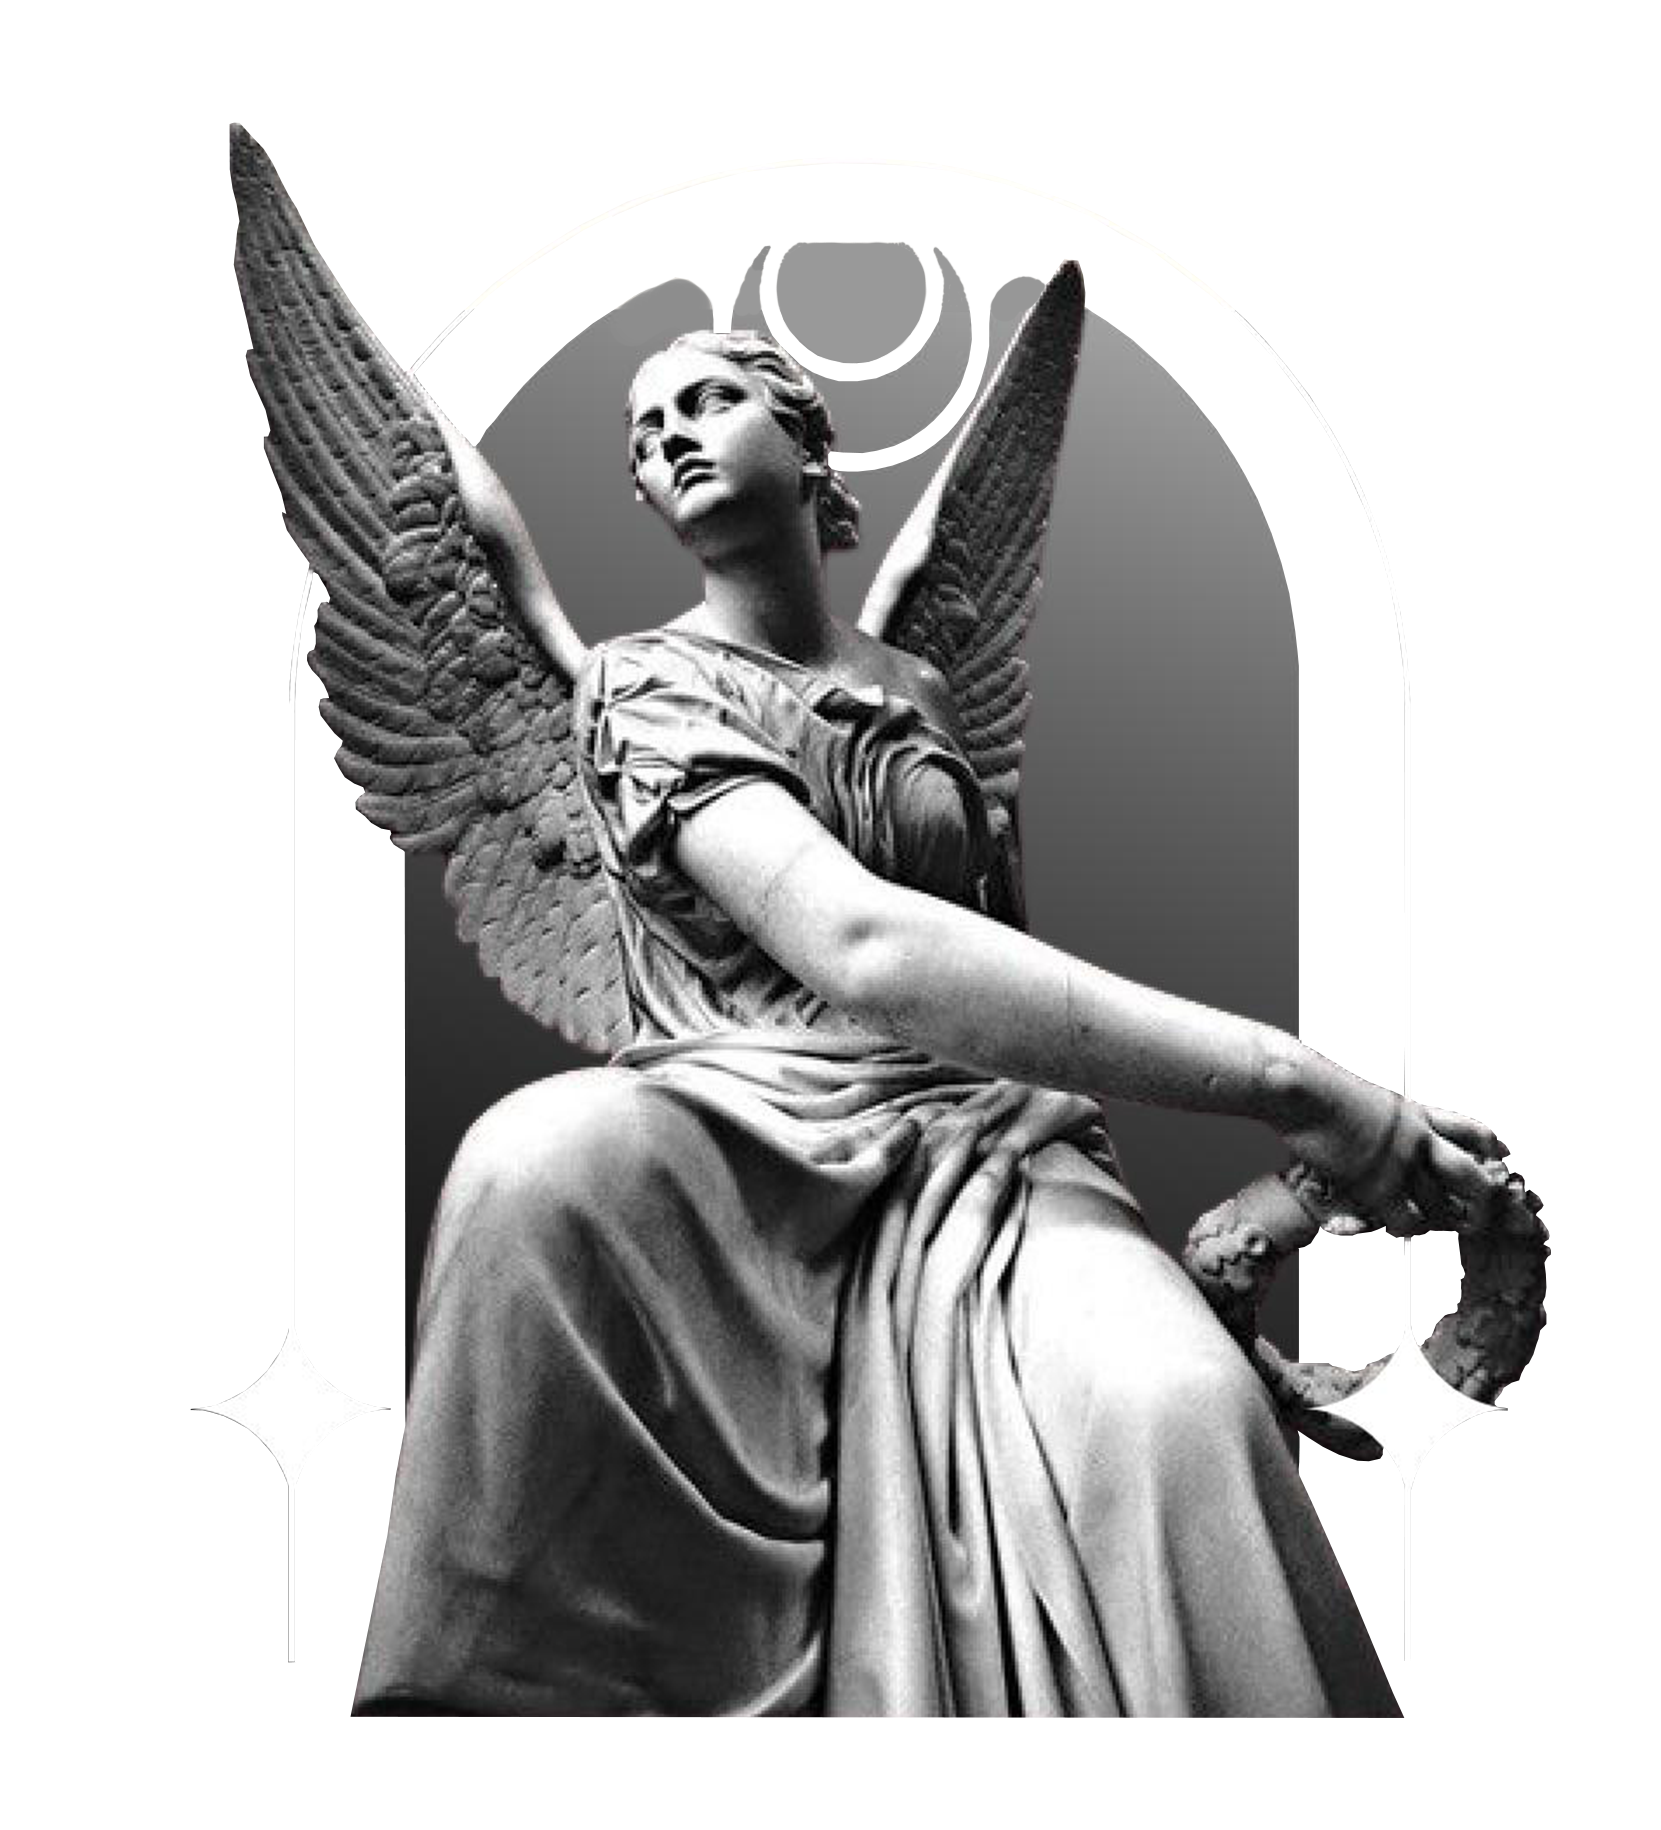
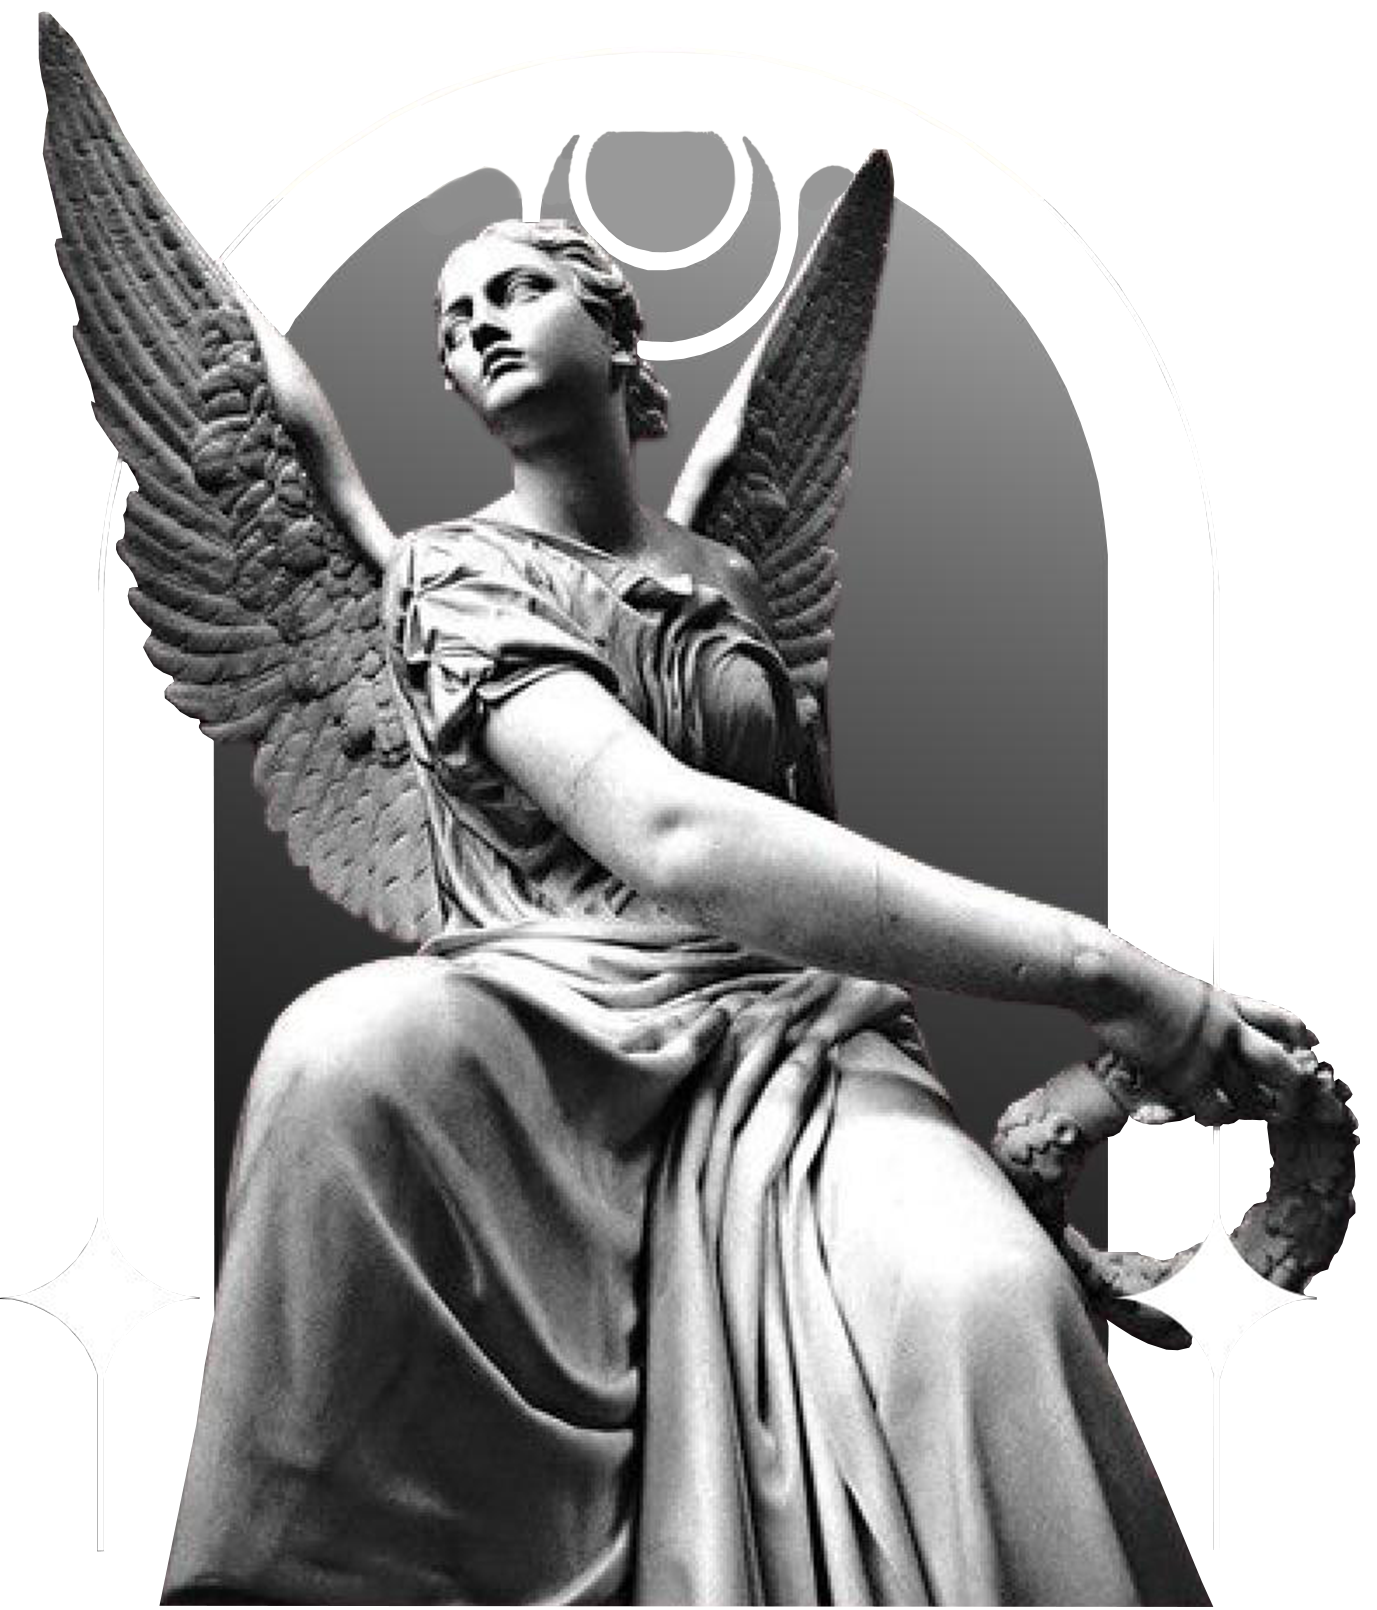
big fix

diff --git a/src/sass/_mixins.scss b/src/sass/_mixins.scss
@@ -130,7 +130,7 @@
 
                 .description {
                     font-size: $base-fontSize;
-                    font-family: 'headingfont';
+                    font-family: 'normalfont';
 
                     @include breakpoint(680px) {
                         font-size: clamp($base-fontSize, 1.5em, $base-fontSize*8);
@@ -153,7 +153,7 @@
                     &::before {
                         content: '';
                         position: absolute;
-                        bottom: -200%;
+                        bottom: -250%;
                         left: 50%;
                         background-color: $primary;
                         width: 150%;
@@ -187,7 +187,7 @@
                     position: absolute;
                     left: 0;
                     bottom: 40px;
-                    height: 200px;
+                    height: 150px;
                     width: 1px;
                     background-color: rgb(196, 192, 192);
                 }
@@ -198,7 +198,7 @@
                     bottom: 0;
                     left: 40px;
                     height: 1px;
-                    width: 100px;
+                    width: 150px;
                     background-color: white;
                 }
             }

diff --git a/src/sass/component/section2/_section2.scss b/src/sass/component/section2/_section2.scss
@@ -28,14 +28,14 @@
                     @include displayFlex($justify-content: center, $align-items: flex-end, $flex-direction: row-reverse);
 
                     img {
-                        height: 20em;
+                        height: 30em;
                     }
                 }
 
                 @include breakpoint(1300px) {
                     gap: 0;
                     img {
-                        height: 30em;
+                        height: 40em;
                     }
                 }
             }
@@ -56,7 +56,7 @@
                 filter: drop-shadow(0 .75rem 1rem white);
 
                 @include breakpoint(680px) {
-                    height: 45em;
+                    height: 40em;
                 }
 
             }

diff --git a/src/FrontendComponent/footer/FooterSection.jsx b/src/FrontendComponent/footer/FooterSection.jsx
@@ -24,7 +24,7 @@ function FooterSection() {
                 <div className="line"></div>
 
                 <div className="credits">
-                    <span>&copy; Copyrights</span> <span>Developer : <a href="https://www.linkedin.com/in/amanmishra2003/" target="_blank">@Aman Mishra2003</a></span> || <span>UI/Wx Designer : <a href="https://www.behance.net/nishantnegi03" target="_blank">@NishantNegi03</a></span>
+                    <span>&copy; Copyrights</span> <span>Developer : <a href="https://www.linkedin.com/in/amanmishra2003/" target="_blank">@Aman Mishra2003</a></span> || <span>UI/UX Designer : <a href="https://www.behance.net/nishantnegi03" target="_blank">@NishantNegi03</a></span>
                 </div>
         </div>
     )

diff --git a/src/sass/component/section4/_section4.scss b/src/sass/component/section4/_section4.scss
@@ -4,7 +4,7 @@
     width: 100vw;
     // background-color: $black;
     overflow: hidden;
-    height: 60vh;
+    height: 70vh;
 
     .outterdiv{
         width:100%;
@@ -42,13 +42,13 @@
             }
 
 
-            button{
+            // button{
                 
-            }
+            // }
 
-            .name{
-                font-size: $base-fontSize*2;
-            }
+            // .name{
+            //     font-size: clamp($base-fontSize*2, 8vh, $base-fontSize*20);
+            // }
 
         }
         

diff --git a/src/sass/component/footer/_aboutus.scss b/src/sass/component/footer/_aboutus.scss
@@ -21,7 +21,7 @@
         }
 
         .heading{
-            font-size: clamp($base-fontSize*1.5, 5vh, $base-fontSize*7);
+            font-size: 3em;
             font-weight:bold;
             margin-bottom: 1%;
         }

diff --git a/src/sass/component/section6/_section6.scss b/src/sass/component/section6/_section6.scss
@@ -45,7 +45,7 @@
 
 
         h3 {
-            font-size: clamp($base-fontSize*1.5, 4vh, $base-fontSize*5);
+            font-size: 3em;
             margin-bottom: $base-margin*.5;
         }
 
